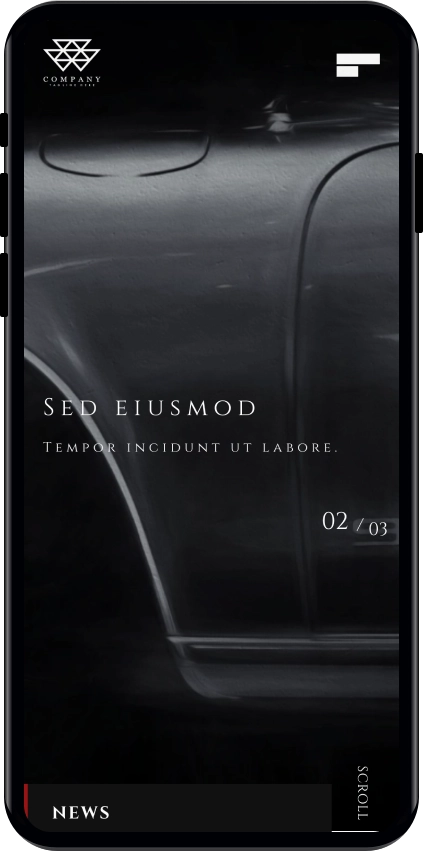
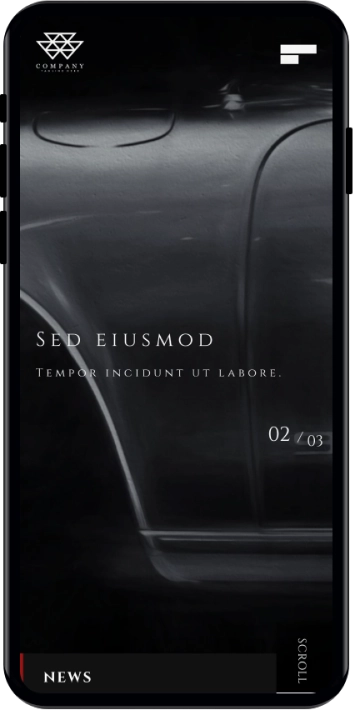
Fix: リファクタリング 画像の解像度調整 drop-shadow削除

diff --git a/_assets/scss/object/Project/_p-works-item.scss b/_assets/scss/object/Project/_p-works-item.scss
@@ -39,10 +39,6 @@
   @include global.mq(lax) {
     width: 39%;
     margin-bottom: 0;
-
-    .p-works-item__img {
-      filter: drop-shadow(global.vw(100) global.vw(150) 25px global.$color-drop-shadow);
-    }
   }
 }
 
@@ -58,10 +54,6 @@
     margin-top: global.vw(-400);
     margin-bottom: 0;
     margin-right: -1vw;
-
-    .p-works-item__img {
-      filter: drop-shadow(global.vw(52) global.vw(80) 10px global.$color-drop-shadow);
-    }
   }
 }
 
@@ -77,8 +69,9 @@
     margin-left: 3%;
     width: 115%;
     margin-top: global.vw(-40);
+
     .p-works-item__img {
-      filter: drop-shadow(global.vw(36) global.vw(33) 10px global.$color-drop-shadow);
+      filter: drop-shadow(0px 0px 0px global.$color-drop-shadow);
     }
   }
 }

diff --git a/_assets/js/main.js b/_assets/js/main.js
@@ -12,7 +12,6 @@ import resizeEvent from './common/resizeEvent';
 import firstViewAnimation from './common/firstViewTrigger';
 import lazyVideo from './common/lazyVideo';
 import replaceHead from './common/replaceHead';
-import agentEvent from './common/agentEvent';
 import { initLoading, endLoading } from './common/loading';
 import { addBlendHeader, removeBlendHeader } from './common/header';
 
@@ -41,7 +40,6 @@ window.addEventListener('DOMContentLoaded', () => {
   resizeEvent();
   toggleEvent();
   lazyVideo();
-  agentEvent();
 });
 firstViewAnimation();
 
@@ -68,7 +66,6 @@ barba.init({
       afterEnter(data) {
         followContents();
         addBlendHeader();
-        agentEvent();
       }
     },
     {

diff --git a/_assets/scss/foundation/_base.scss b/_assets/scss/foundation/_base.scss
@@ -150,6 +150,11 @@ br {
   line-height: 0;
 }
 
+hr {
+  border: none;
+  margin-top: 24px;
+}
+
 :focus:not(:focus-visible) {
   outline: 0; //キーボード操作"以外"でフォーカスされた際はoutlineを消す
 }

diff --git a/_assets/scss/object/utility/_u-weight.scss b/_assets/scss/object/utility/_u-weight.scss
@@ -3,6 +3,6 @@
 // Utility font-wight
 //--------------------------------------------------------------------------
 
-.u-weight700 {
-  font-weight: 700;
+.u-weight600 {
+  font-weight: 600;
 }
